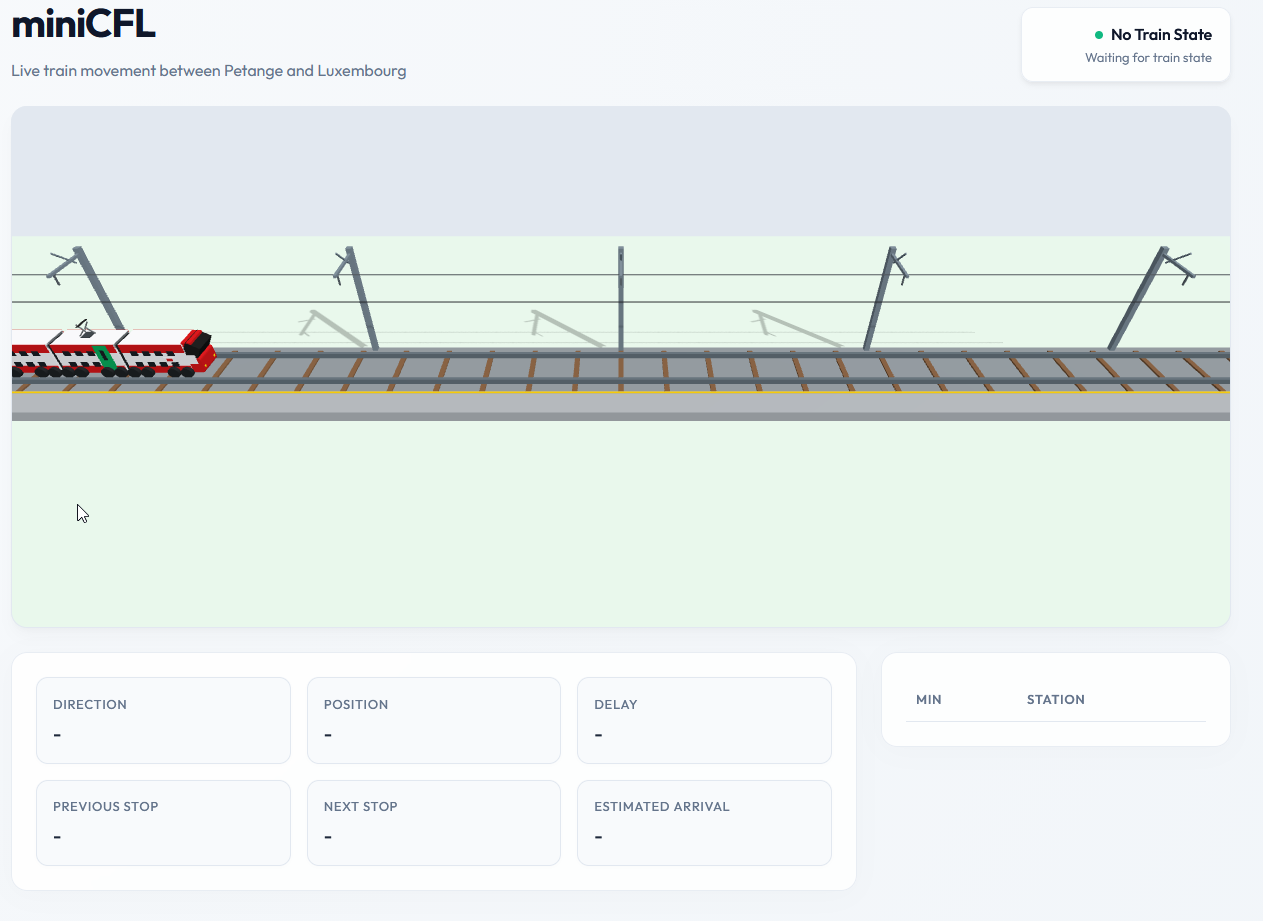
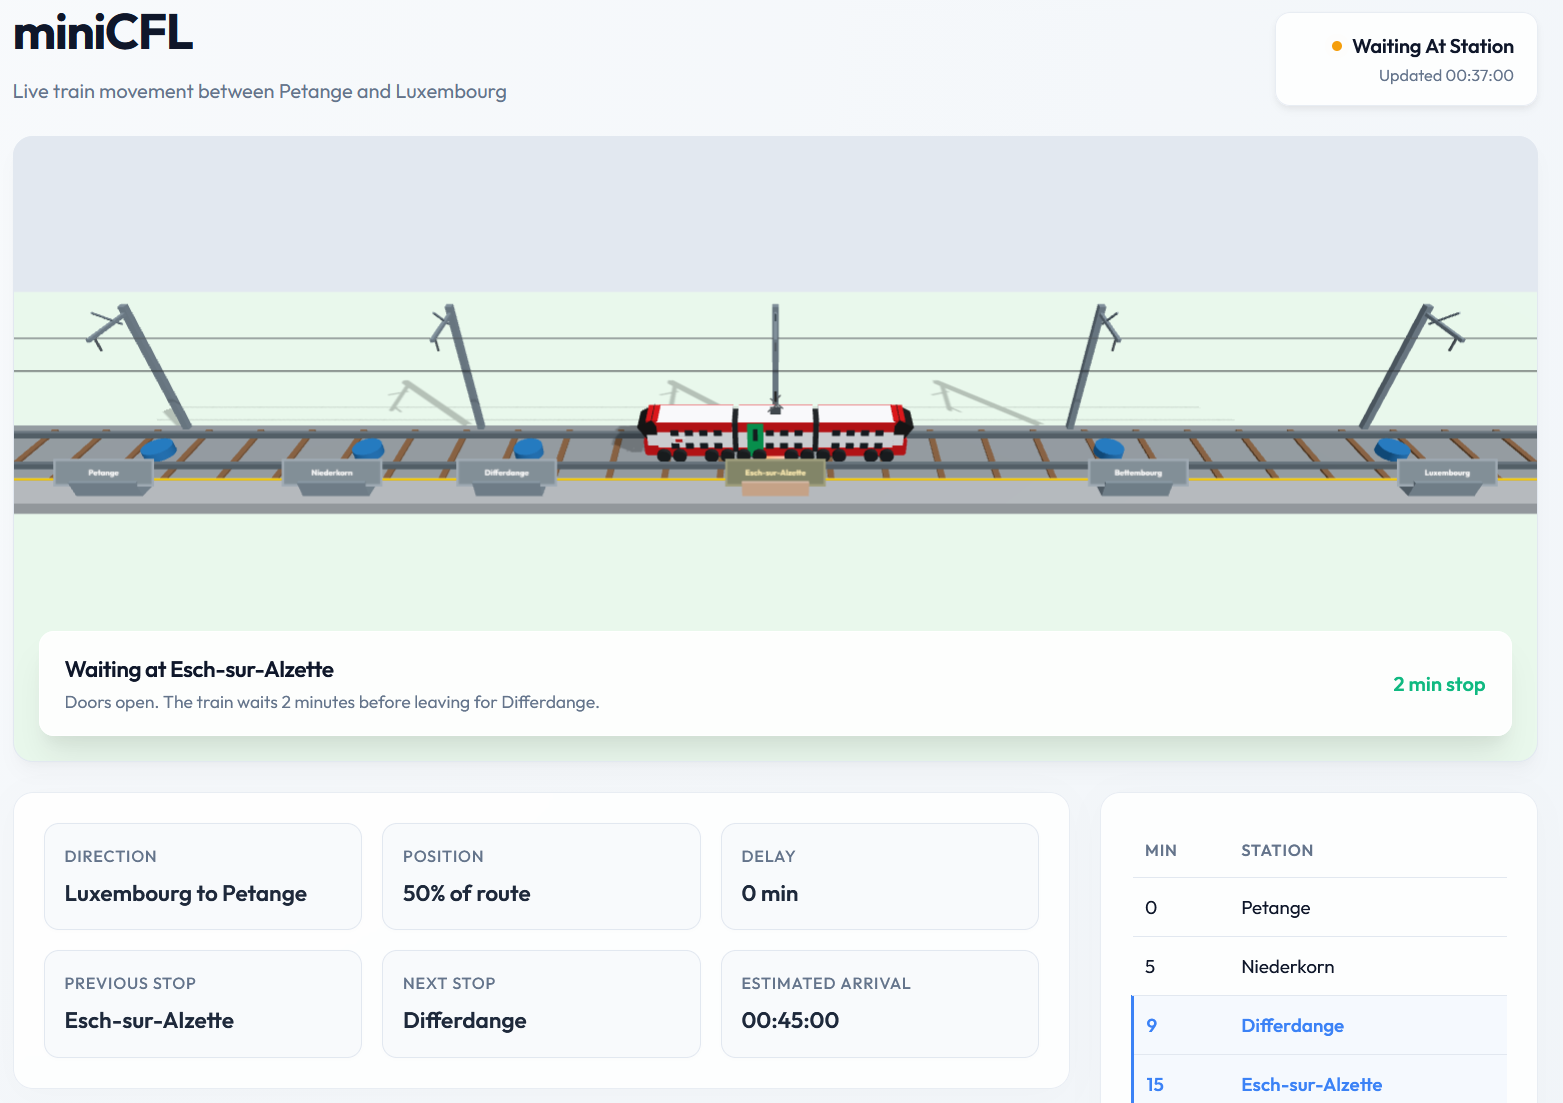
Projecr changes, more dynamic collapse menus. removal of personal reflection

diff --git a/data/content.js b/data/content.js
@@ -137,9 +137,12 @@ const PORTFOLIO = {
                         "For this we used a VM running a database with an App service created out of a Azure Contair Registry image to make the database. The updates for the train were done using Azure functions. \n" +
                         "Alongside, we created policies, groups, RBAC assignments, budgets and used monitoring resources to demonstrate further our knowledge of Azure. \n\n" +
                         "The GitHub is private which container the image for the ACR, so I can't show it here. \n" +
+                        "The app is accessible with this link: \n " +
+                        "<a href='https://app-minicfl-web-dev-dwb4h6cnahghd2cs.francecentral-01.azurewebsites.net/' target='_blank' rel='noopener'>Here</a> \n" +
+                        "(May not be accessible if the app has been shut off to save on costs)^\n" +
                         "The final grade is yet to be given.",
       reflection:       "This project, despite needing to be done within a short time, went really well, some issues arose where we needed to solve ourselves using what we learnt. \n" +
-                        "Overall this project really demonstrates my knowledge of Azure and how I can further improve on my skills.",
+                        "Overall this project really demonstrates my knowledge and usage of Azure. It also shows how I can further improve on my skills within Cloud area.",
       image:            "../images/Azure-logo.png",
       images:           { folder : "../images/project-minicfl", ext : "png"},   // e.g. { folder: "../images/minicfl", ext: "png" }
       tech:             ["Microsoft Azure", "Web application", "Databases", "School Project"],
@@ -147,7 +150,7 @@ const PORTFOLIO = {
       link:             "../Documents/MiniCFL_Azure_Documentation.pdf",
       linkLabel:        "Download Documentation",
       status:           "complete",
-      date:             null,
+      date:             "25/06/2026",
       featured:         true
     },
     {
@@ -162,6 +165,7 @@ const PORTFOLIO = {
       reflection:       "This project was very good and taught me much about how to use Hypervisors with it's different features and how to manage VMs with a type 1 hypervisor." +
                         "I'm quite satisfied with the outcome, however some internal complications made it a bit more stressful.",
       image:            "../images/Proxmox_VMWare.png",
+      images:           null,
       tech:             ["Server Configuration", "Proxmox", "VMWare","School Project"],
       extraTech:        ["Hypervisor configuration", "VM Configuration", "Documentation"],
       link:             "../Documents/Proxmox_VMWare_Snapshots_Templates_Documentation.pdf",
@@ -412,7 +416,6 @@ const PORTFOLIO = {
   // education[]:     formal studies
   //   subjects[]:    semesters — each has a semester label and a courses[] array
   //     courses[]:   { name, description } — individual subjects/modules
-  //   reflection:    personal reflection paragraph (null to hide)
   // onlineCourses[]: self-study courses, platforms, etc.
   //   date:          completion date shown top-right of the row (null to hide)
   learningPath: {
@@ -433,14 +436,11 @@ const PORTFOLIO = {
           {
             semester: "Semester 2",
             highlights: "Highlight of this semester was working on physical servers and working on projects related to virtualization. Also more in depth knowledge into Cloud systems and actually using these tools we learnt about.\n" +
-            "We're learning to be more hands-on and work with real hardware and software."
+            "We're learning to be more hands-on and work with real hardware and software. \n" +
+            "Further we have gone a lot more in depth in Azure and Virtualisation with Proxmox and VMWare"
           }
           // add more semesters: { semester: "Semester 3", highlights: "..." }
-        ],
-        reflection: "During my BTS Studies, I have learned a lot about many topics that have interested me. Having more focus on the technical side rather than the theoretical side has helped me understand these concepts better.\n" +
-          "During the time I have been able to use my strength in problem-solving and fast learning to understand the complex topics, we're learning about.\n" +
-          "Working with the class and collaborating on projects has been a great experience to improve my weakness in communication. Also the projects have helped me in learning how to plan myself and manage my time better.\n\n" +
-          "All in all, I am very happy to have switched my studies to this field, I hope to further my knowledge and skills during the 2 last semesters." // your personal reflection on the programme overall
+        ]
       }
     ],
     onlineCourses: [

diff --git a/js/main.js b/js/main.js
@@ -318,9 +318,9 @@ function populateSkills() {
 
   container.appendChild(groups);
 
-  // Show only 2 rows, with the rest behind a "Show more" toggle.
+  // Show only 1 row, with the rest behind a "Show more" toggle.
   // Column count is responsive, so derive it from the rendered grid.
-  const ROWS = 2;
+  const ROWS = 1;
   const btn = el('button', 'show-more-btn');
   container.appendChild(btn);
   section.appendChild(container);
@@ -344,7 +344,8 @@ function populateSkills() {
   const applyCollapsed = () => {
     const visible = colCount() * ROWS;
     cards.forEach((card, idx) => {
-      card.classList.remove('skill-revealing');
+      card.classList.remove('skill-revealing', 'skill-hiding');
+      card.style.animationDelay = '';
       card.style.display = idx < visible ? '' : 'none';
     });
     updateBtn();
@@ -357,11 +358,12 @@ function populateSkills() {
       let revealIdx = 0;
       cards.forEach((card, idx) => {
         if (idx < startIdx) return;
+        card.classList.remove('skill-hiding');
         card.style.display = '';
         // Cascade the newly shown cards in to fill the space
         card.classList.remove('skill-revealing');
         void card.offsetWidth; // restart the animation if it already played
-        card.style.animationDelay = `${revealIdx * 60}ms`;
+        card.style.animationDelay = `${revealIdx * 55}ms`;
         card.classList.add('skill-revealing');
         card.addEventListener('animationend', () => {
           card.classList.remove('skill-revealing');
@@ -371,7 +373,21 @@ function populateSkills() {
       });
       updateBtn();
     } else {
-      applyCollapsed();
+      // Cascade the extra cards out (reverse order), then hide once faded
+      const startIdx = colCount() * ROWS;
+      const hiding = cards.filter((card, idx) => idx >= startIdx && card.style.display !== 'none');
+      hiding.reverse().forEach((card, i) => {
+        card.classList.remove('skill-revealing');
+        void card.offsetWidth;
+        card.style.animationDelay = `${i * 35}ms`;
+        card.classList.add('skill-hiding');
+        card.addEventListener('animationend', () => {
+          card.classList.remove('skill-hiding');
+          card.style.animationDelay = '';
+          card.style.display = 'none';
+        }, { once: true });
+      });
+      updateBtn();
     }
   });
 
@@ -489,27 +505,38 @@ function populateCertifications() {
 
     btn.addEventListener('click', () => {
       showingAll = !showingAll;
-      let revealIdx = 0;
-      grid.querySelectorAll('.cert-card').forEach((card, idx) => {
-        if (PORTFOLIO.certifications[idx]?.priority) return;
+      const extraCards = [...grid.querySelectorAll('.cert-card')]
+        .filter((card, idx) => !PORTFOLIO.certifications[idx]?.priority);
 
-        if (showingAll) {
+      if (showingAll) {
+        // Stagger each newly shown card so they cascade in to fill the space
+        extraCards.forEach((card, i) => {
+          card.classList.remove('cert-hiding');
           card.style.display = '';
-          // Stagger each newly shown card so they cascade in to fill the space
           card.classList.remove('cert-revealing');
           void card.offsetWidth; // restart the animation if it was already played
-          card.style.animationDelay = `${revealIdx * 60}ms`;
+          card.style.animationDelay = `${i * 60}ms`;
           card.classList.add('cert-revealing');
           card.addEventListener('animationend', () => {
             card.classList.remove('cert-revealing');
             card.style.animationDelay = '';
           }, { once: true });
-          revealIdx++;
-        } else {
+        });
+      } else {
+        // Cascade the extra cards out (reverse order), then hide once faded
+        extraCards.slice().reverse().forEach((card, i) => {
           card.classList.remove('cert-revealing');
-          card.style.display = 'none';
-        }
-      });
+          void card.offsetWidth;
+          card.style.animationDelay = `${i * 40}ms`;
+          card.classList.add('cert-hiding');
+          card.addEventListener('animationend', () => {
+            card.classList.remove('cert-hiding');
+            card.style.animationDelay = '';
+            card.style.display = 'none';
+          }, { once: true });
+        });
+      }
+
       btn.innerHTML = showingAll
         ? `Show fewer ▴`
         : `Show ${extraCount} more ▾`;

diff --git a/css/style.css b/css/style.css
@@ -585,12 +585,23 @@ img { display: block; max-width: 100%; }
 /* Staggered reveal when "Show more" expands a grid (certs + skills) */
 .cert-card.cert-revealing,
 .skill-card.skill-revealing {
-  animation: card-reveal 0.45s cubic-bezier(0.22, 1, 0.36, 1) both;
+  animation: card-reveal 0.5s cubic-bezier(0.22, 1, 0.36, 1) both;
+}
+
+/* Staggered fade-out when "Show fewer" collapses a grid (certs + skills) */
+.cert-card.cert-hiding,
+.skill-card.skill-hiding {
+  animation: card-hide 0.32s cubic-bezier(0.4, 0, 0.6, 1) both;
 }
 
 @keyframes card-reveal {
   from { opacity: 0; transform: translateY(18px) scale(0.96); }
   to   { opacity: 1; transform: translateY(0) scale(1); }
+}
+
+@keyframes card-hide {
+  from { opacity: 1; transform: translateY(0) scale(1); }
+  to   { opacity: 0; transform: translateY(12px) scale(0.96); }
 }
 
 .cert-badge {
@@ -1391,6 +1402,7 @@ footer {
 }
 
 .modal-preview-thumb {
+  position: relative;
   width: 100%;
   padding: 0;
   border: 1px solid var(--border);
@@ -1411,6 +1423,33 @@ footer {
   display: block;
   width: 100%;
   height: auto;
+  transition: filter var(--transition);
+}
+
+/* Dim the image on hover */
+.modal-preview-thumb:hover img {
+  filter: brightness(0.55);
+}
+
+/* "Click to expand" hint overlay — hidden until hover */
+.modal-preview-hint {
+  position: absolute;
+  inset: 0;
+  display: flex;
+  align-items: center;
+  justify-content: center;
+  gap: 0.4rem;
+  font-size: 13px;
+  font-weight: 600;
+  line-height: 1;
+  color: var(--text-bright);
+  opacity: 0;
+  transition: opacity var(--transition);
+  pointer-events: none;
+}
+
+.modal-preview-thumb:hover .modal-preview-hint {
+  opacity: 1;
 }
 
 .modal-preview-more {
@@ -1938,16 +1977,3 @@ footer {
   line-height: 1.7;
 }
 
-/* ── Personal Reflection ──────────────────────────────── */
-.lpath-reflection {
-  margin-top: 1.75rem;
-  padding-top: 1.5rem;
-  border-top: 1px solid var(--border);
-}
-
-.lpath-reflection-text {
-  font-size: 15px;
-  color: var(--text);
-  line-height: 1.8;
-  font-style: italic;
-}

diff --git a/js/projects.js b/js/projects.js
@@ -357,6 +357,12 @@ function openModal(proj) {
       im.loading = 'lazy';
       im.addEventListener('load', fitPreview);   // re-fit once dimensions known
       thumb.appendChild(im);
+
+      // Hover hint — makes it obvious the image is clickable
+      const hint = el('span', 'modal-preview-hint');
+      hint.innerHTML = '<i class="fa-solid fa-magnifying-glass-plus"></i> Click to expand';
+      thumb.appendChild(hint);
+
       thumb.addEventListener('click', () => openLightbox(i));
       modalPreviewStrip.appendChild(thumb);
     });

diff --git a/js/learning.js b/js/learning.js
@@ -124,16 +124,6 @@ function buildEduCard(edu) {
     card.appendChild(wrap);
   }
 
-  // Personal Reflection
-  if (edu.reflection) {
-    const wrap = el('div', 'lpath-reflection');
-    wrap.appendChild(el('div', 'lpath-block-label', 'Personal Reflection'));
-    const p = el('p', 'lpath-reflection-text');
-    p.innerHTML = edu.reflection.replace(/\n/g, '<br>');
-    wrap.appendChild(p);
-    card.appendChild(wrap);
-  }
-
   return card;
 }
 
